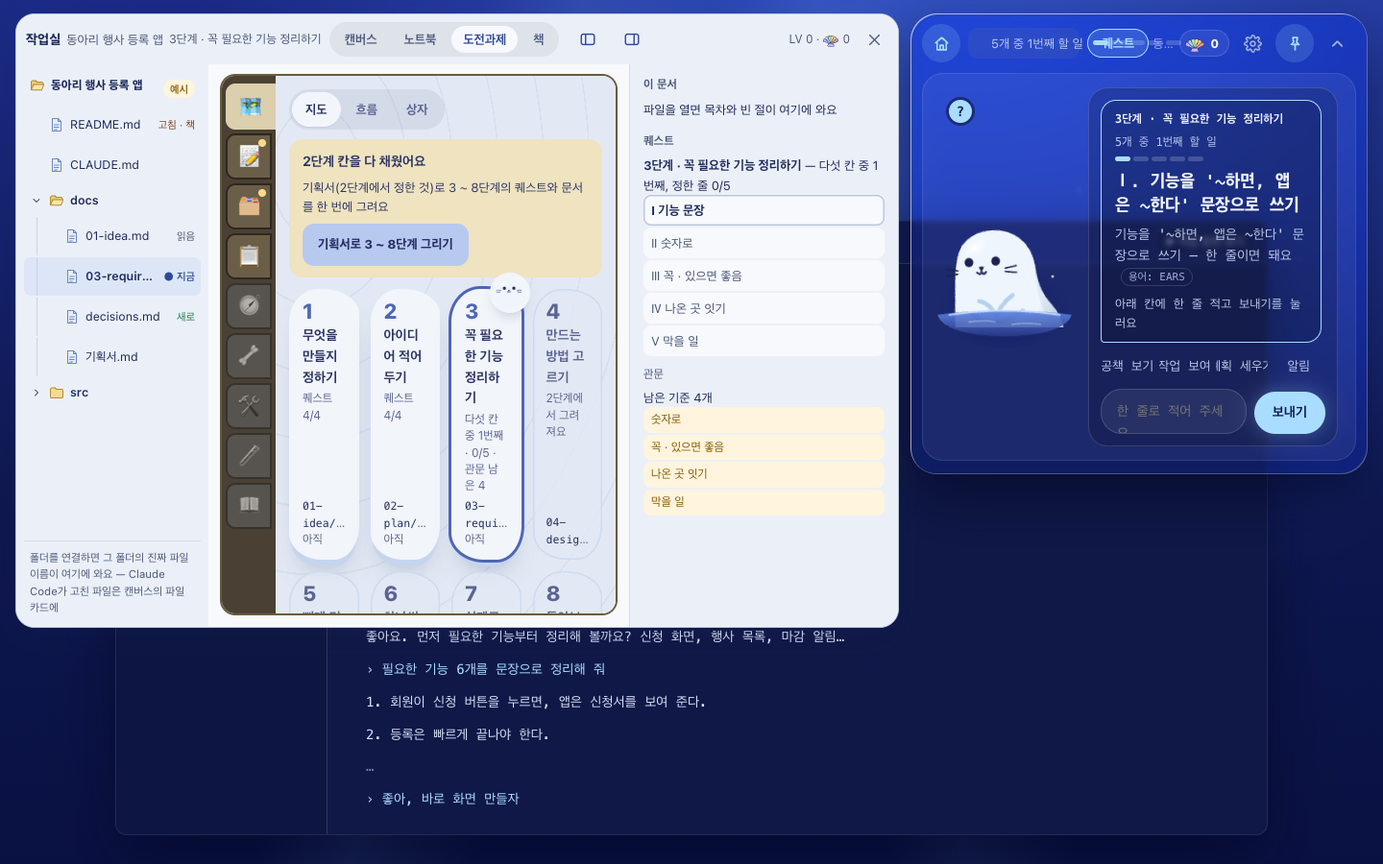
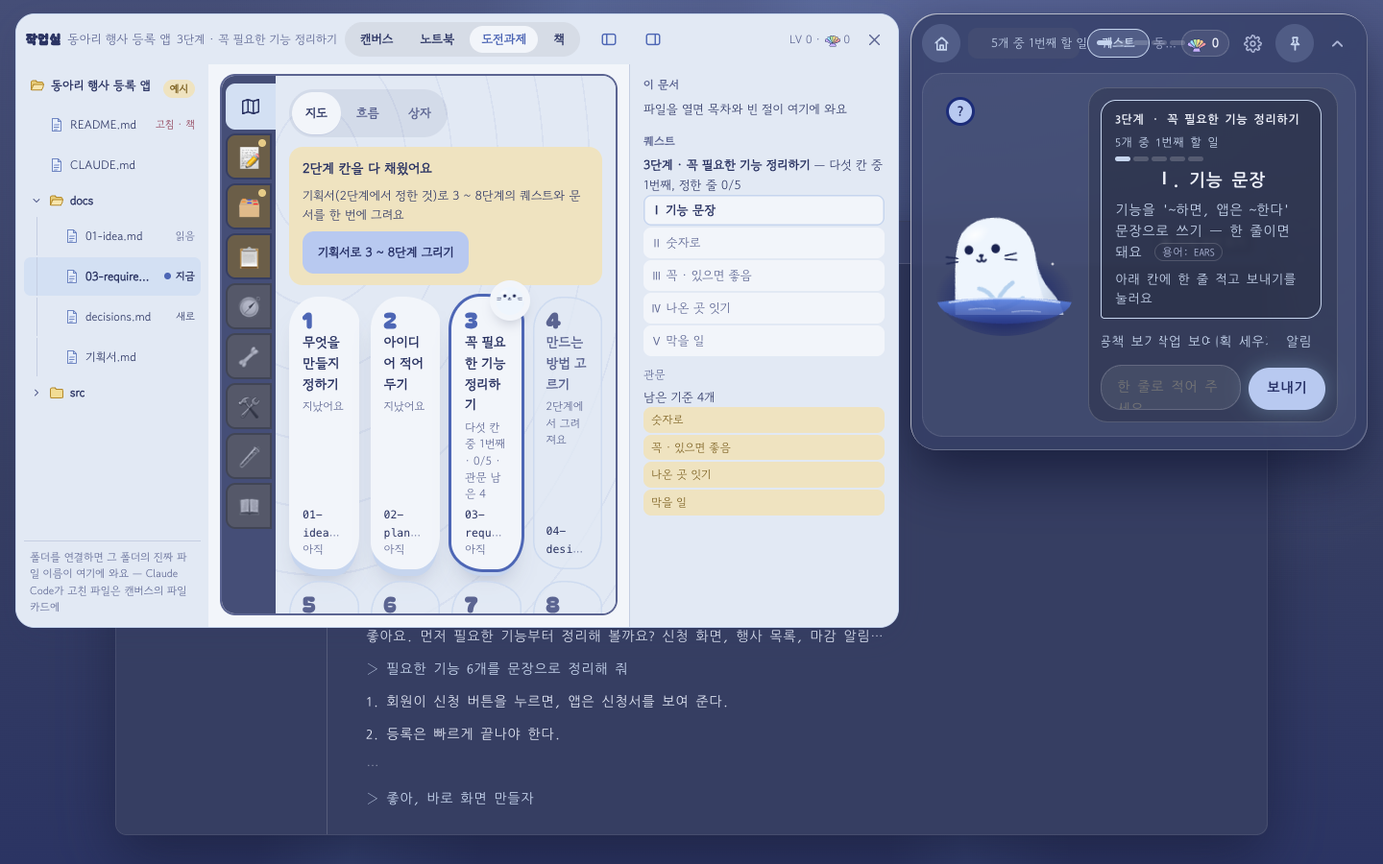
feat(navigator): C-54 ⑧ ⑨ 지도 보강 — 끝난 · 지금 카드를 누르면 커져 줄마다 할 일 → 문서 ← 재료, 줄을 누르면 오른쪽 칸에 누가 · 재료 · 다음 단계; 흐름 보기에 짝 선(1↔8 · 2↔7 · 3↔6)과 두 칸 나란히
디자인 넘김 ⓔ+(이재엽 버튼 "둘다 할것"(누르기 + 확대) · "'흐름 따라가기'에서만").

- stagemap.js PAIRS · pairOf(정한 곳 decide · 확인하는 곳 check) · usedBy(이 칸을 재료로 쓴 뒤 단계의 칸 — 결과 · 하는 중인 퀘스트 초안)
- app.js stageCells(n) · cardsMap big 카드(.sm-cell.big 한 줄 전체, sm-zoom 움직임, .sm-row 줄 = Ⅰ 이름 · 적은 줄/플로로 초안 · → 문서 절 · ← 재료, 누가 색 띠) · map-line → wsideHTML .ws-line(누가 정했나 · 재료가 온 곳 · 이 줄을 쓰는 다음 단계 · 파일 보기 / 틀로 맡기기, 빈 칸은 플로로 초안 + '채팅에서 같이 적기')
- treeMap(흐름)만: 단계마다 .jm-rails(길 셋 a 금 · b 민트 · c 볼, 정한 곳 s에서 확인하는 곳 e까지, 잠긴 장도 지나감) · 짝 단추(pair-sel) → .jm-side 두 칸 나란히(정한 곳 → 확인하는 곳, 좁으면 세로). 지도(카드)에는 짝 선이 없다
- 시험 먼저(code.md 1번): stagemap.test(PAIRS · pairOf · usedBy) · modes 핀 · e2e stage-map(큰 카드 · 줄 → 오른쪽 칸 · 다시 누르면 작아짐 · 길 8 · 두 칸 나란히 · 닫기), 사진 compare/map-zoom.png · map-pairs.png

diff --git a/02-frontend/navigator/app.js b/02-frontend/navigator/app.js
@@ -1512,6 +1512,15 @@
     // C-54: 도전과제의 카드를 눌렀으면 그 카드의 퀘스트(준비된 다섯 칸) · 문서 · 재료
     if (st.qtab === "tree" && st.mapSel != null && SM) {
       const m = stageMap(), c = m && m.cards[st.mapSel]; if (c) {
+        // C-54 ⑧(2026-10-28): 큰 카드의 줄을 눌렀다 — 누가 정했나(플로로 초안 → 고침 · 고름 · 직접 · 옮김) · 재료가 온 곳 · 이 줄을 쓰는 다음 단계 · 파일 보기 / 틀로 맡기기. 빈 칸은 플로로 초안 + 채팅에서 같이 적기
+        if (st.mapLine && st.mapLine.n === c.n) { const x = stageCells(c.n)[st.mapLine.k];
+          if (x) { const uses = SM.usedBy({ s: c.n, i: st.mapLine.k }, st.results, st.quest), who = x.line ? `${QU.BY_WORD[x.by] || "적음"}${x.draft && x.draft !== x.line && (x.by === "edit" || x.by === "pick") ? ` — 플로로 초안: ${esc(x.draft)}` : x.by === "ok" ? " — 플로로 초안 그대로" : ""}` : "";
+            const open = c.doc.has ? `<button type="button" class="b sm" data-act="map-open" data-v="${esc(c.doc.path)}">파일 보기</button>` : "", preset = PR && canLive && st.mode !== "fixture" && c.doc.has ? `<button type="button" class="b sm ghost" data-act="preset-open">틀로 맡기기</button>` : "";
+            return `${doc}<section class="ws-line"><h4>${ROMAN(st.mapLine.k)} ${esc(QU.shortOf(x.name))}</h4><p class="ws-sum">${x.line ? `“${esc(x.line)}”` : x.draft ? `비었어요 — 플로로 초안: “${esc(x.draft)}”` : "비었어요"}</p>
+              ${x.line ? `<p class="ws-h">누가 정했나</p><p class="ws-sum">${who}</p>` : `<p class="ws-sum"><button type="button" class="b sm" data-act="map-chat">채팅에서 같이 적기</button></p>`}
+              <p class="ws-h">재료가 온 곳</p><ul class="ws-mat">${x.from.length ? x.from.map((f) => `<li>${esc(refLabel(f))}</li>`).join("") : "<li>받은 글만 봤어요</li>"}</ul>
+              <p class="ws-h">이 줄을 쓰는 다음 단계</p><ul class="ws-mat">${uses.length ? uses.map((u) => `<li>${LB(u.s)} ${ROMAN(u.i)} ${esc(QU.shortOf(u.name))}</li>`).join("") : "<li>아직 없어요 — 다음 단계가 이 줄을 재료로 쓰면 여기에 와요</li>"}</ul>
+              <p class="ws-h">문서</p><p class="ws-sum"><code>${esc(c.doc.path)}</code> ${open}${preset}${c.doc.has ? "" : " 아직 없어요"}</p></section>`; } }
         const p = c.prepared, cells = p ? [["① 생각", p.think], ["② 행동", p.act], ["③ 기록", p.record.map((x) => QU.shortOf(x)).join(" · ")], ["④ 저장", p.save], ["⑤ 버전", p.ver]] : null;
         return `${doc}<section class="ws-q"><h4>퀘스트</h4>${cells ? `<ol class="ws-cells">${cells.map(([k, v]) => `<li><b>${k}</b> ${esc(v || "—")}</li>`).join("")}</ol><p class="ws-h">재료</p><p class="ws-sum">${esc(p.from)}</p>` : `<p class="ws-sum">${c.state === "later" ? "2단계에서 그려져요" : c.q ? `다섯 칸 ${c.q.k}/${c.q.n}` : "아직"}</p>`}
           <p class="ws-h">문서</p><p class="ws-sum"><code>${esc(c.doc.path)}</code> ${c.doc.has ? `<button type="button" class="lnk" data-act="map-open" data-v="${esc(c.doc.path)}">파일 보기로 열기</button>` : "아직 없어요"}</p></section>`;
@@ -1584,10 +1593,23 @@
   const STATE_WORD = { done: "끝남", now: "지금", ready: "준비됨", pending: "준비됨 — 확인 전", later: "2단계에서 그려져요" };
   // 규칙 카드(stagemap.prepare) + AI 카드(/api/prepare) — AI가 낸 이름 · ① 생각 · ② 행동 · 근거만 덮고, ③ 기록 · ④ 저장 · ⑤ 버전은 규칙 그대로(C-56 R-2)
   const mergePrepared = (rule, ai) => Object.fromEntries(Object.entries(rule).map(([n, c]) => { const x = ai && ai[n]; return [n, x ? { ...c, think: x.think || c.think, act: x.act || c.act, from: x.from || c.from, ...(x.title ? { title: x.title } : {}) } : c]; }));
+  // C-54 ⑧(2026-10-28 디자인 넘김 ⓔ+, 이재엽 버튼 "둘다 할것" — 누르기 + 확대): 한 단계의 칸들 — 이름 · 적은 줄 · 누가 · 플로로 초안 · 재료. 하는 중인 퀘스트가 먼저, 다음은 결과, 그 뒤는 할 일 이름만(흐름 보기의 cellOf와 같은 규칙)
+  function stageCells(n) {
+    const r = st.results[n], q = st.quest && st.quest.chap === n ? st.quest : null;
+    const names = q ? q.objs.map((o, i) => QU.nameOf(q, i)) : r ? r.items.map((x) => x.name) : crits(n).map((c) => c.text);
+    return names.map((name, k) => (q ? { name, line: (q.lines[k] || [])[0] || "", by: (q.by || [])[k] || "", draft: QU.proposalOf(q, k), from: QU.fromOf(q, k) }
+      : r && r.items[k] ? { name, line: (r.items[k].lines || [])[0] || "", by: r.items[k].by || "", draft: r.items[k].draft || "", from: r.items[k].from || [] } : { name, line: "", by: "", draft: "", from: [] }))
+      .map((c) => ({ ...c, by: QU.BY.includes(c.by) ? c.by : "", from: (c.from || []).filter((x) => x && Number.isInteger(x.s) && Number.isInteger(x.i)) }));   // 저장소에서 온 값은 믿지 않는다(class에 들어간다)
+  }
   function cardsMap(cur) {
     const m = stageMap(); if (!m) return treeMap(cur);
     const fix = st.prep && !st.prep.ok && st.prep.fix;
+    // ⑧ 고른 끝난 · 지금 카드는 그 자리에서 커진다 — 줄 하나 = 할 일 → 문서의 절 ← 재료. 줄을 누르면 오른쪽 칸(wsideHTML .ws-line)
+    const big = (c) => { const cells = stageCells(c.n), doc = c.doc.path.replace(/^docs\//, "");
+      const rows = cells.map((x, k) => `<li class="sm-row${x.line ? "" : " miss"}${x.by ? ` by-${x.by}` : ""}${st.mapLine && st.mapLine.n === c.n && st.mapLine.k === k ? " sel" : ""}"><button type="button" data-act="map-line" data-i="${c.n}" data-k="${k}" aria-pressed="${!!(st.mapLine && st.mapLine.n === c.n && st.mapLine.k === k)}"><b>${ROMAN(k)}</b><span class="sm-rn">${esc(QU.shortOf(x.name))}</span><span class="sm-rl">${x.line ? esc(x.line) : x.draft ? `플로로 초안: ${esc(x.draft)}` : "비었어요"}</span><small>→ ${esc(doc)} ${esc(QU.shortOf(x.name))} 절${x.from.length ? ` · ← ${x.from.map((f) => esc(refLabel(f))).join(" · ")}` : ""}</small></button></li>`).join("");
+      return `<div class="sm-cell big"><button type="button" class="sm-card ${c.state} sel big" data-act="map-card" data-i="${c.n}" aria-pressed="true" aria-label="${LB(c.n)} ${esc(c.title)} — 가까이 보고 있어요. 다시 누르면 작아져요"><span class="sm-no">${c.label}</span><span class="sm-t">${esc(c.title)}</span><span class="sm-line">${c.state === "done" ? "지났어요" : "지금"} · 줄을 누르면 오른쪽 칸에 누가 정했나 · 재료 · 다음 단계</span></button><ol class="sm-rows" aria-label="${LB(c.n)}의 칸">${rows}</ol></div>`; };
     const card = (c) => { const p = c.prepared, sel = st.mapSel === c.n;
+      if (sel && (c.state === "done" || c.state === "now")) return big(c);
       const body = c.state === "later" ? `<span class="sm-note">2단계에서 그려져요</span>`
         : c.state === "done" ? `<span class="sm-line">${c.q ? `퀘스트 ${c.q.k}/${c.q.n}` : "지났어요"}</span>`
         : c.state === "now" ? `<span class="sm-line">${c.q ? `다섯 칸 중 ${Math.min(c.q.k + 1, c.q.n)}번째 · ${c.q.k}/${c.q.n}` : "퀘스트 받기 전"}${c.gateLeft ? ` · 관문 남은 ${c.gateLeft}` : ""}</span>`
@@ -1600,7 +1622,7 @@
     const ban = m.canDraw ? `<div class="sm-ban"><b>2단계 칸을 다 채웠어요</b><span>기획서(2단계에서 정한 것)로 3 ~ 8단계의 퀘스트와 문서를 한 번에 그려요</span><button type="button" class="b" data-act="prep-draw">기획서로 3 ~ 8단계 그리기</button></div>`
       : m.drawn && !m.confirmed ? `<div class="sm-ban"><b>퀘스트 ${Object.keys(st.prep.cards).length}개를 준비했어요</b><span>${fix ? "카드마다 ① 생각을 고친 뒤 '맞아요'를 눌러요" : "카드마다 어느 절에서 왔는지 적었어요 — 맞으면 한 번에 넘어가요"}</span><button type="button" class="b" data-act="prep-ok">맞아요 — 이대로 준비해요</button>${fix ? "" : `<button type="button" class="b ghost" data-act="prep-fix">고칠래요</button>`}</div>`
       : m.cur < 2 ? `<div class="sm-ban soft"><span>1단계에서는 길이 한 칸만 보여요. 2단계 칸을 다 채우면 3단계부터 8단계까지의 퀘스트와 문서가 한 번에 그려져요</span></div>` : "";
-    const legend = `<p class="sm-legend"><span class="done">끝남</span><span class="now">지금</span><span class="ready">준비된 퀘스트</span><span class="later">아직 안 그려짐</span><small>카드를 누르면 오른쪽 칸에 그 퀘스트와 문서</small></p>`;
+    const legend = `<p class="sm-legend"><span class="done">끝남</span><span class="now">지금</span><span class="ready">준비된 퀘스트</span><span class="later">아직 안 그려짐</span><small>카드를 누르면 오른쪽 칸에 그 퀘스트와 문서 — 끝난 · 지금 카드는 커져서 줄마다 보여요</small></p>`;
     const docs = `<ul class="sm-docs">${m.docs.map((d) => `<li class="${d.has ? "has" : ""}"><code>${esc(d.path)}</code><span>${esc(d.what)}</span><small>${d.has ? "있음" : "아직"}</small></li>`).join("")}</ul>`;
     const ship = FDOCS && st.results[0] && st.results[1] ? `<p class="sm-ship"><button type="button" class="b" data-act="ship-open">문서로 묶어 GitHub에</button><small>지금까지 정한 것을 단계 문서 · 기획서 · 결정 기록으로</small></p>` : "";   // 흐름 보기(jmap)와 같은 단추
     return `<div class="sm">${ban}<div class="sm-grid">${row1}</div><div class="sm-grid back">${row2}</div>${docs}${legend}${ship}</div>`;
@@ -1646,8 +1668,11 @@
       const names = q ? q.objs.map((o) => o.name) : r ? r.items.map((x) => x.name) : crits(n).map((c) => c.text);   // 지금 장은 하는 중인 퀘스트가 먼저
       const got = names.filter((_, k) => cellOf(q, r, k).line).length;
       const date = r && (r.at || r.passed) ? `<span class="jm-date">${r.at ? `확인 ${esc(r.at.slice(5))}` : ""}${r.passed ? ` · 관문 ${esc(r.passed.slice(5))}` : ""}</span>` : "";
-      const head = `<div class="jm-h"><b>${LB(n)} · ${esc(s.title)}</b>${date}<span class="jm-count">${got}/${names.length}</span></div>`;
-      if (state === "lock") return `<section class="jm-stage lock" data-n="${n}">${head}${n > cur + 1 ? "" : `<ul class="jm-cells">${names.map((name) => `<li class="jm-lock"><b>${esc(QU.shortOf(name))}</b></li>`).join("")}</ul>`}</section>`;
+      // C-54 ⑨(2026-10-28 버튼 "'흐름 따라가기'에서만"): 짝 선 — 세로 길 셋(a 1↔8 · b 2↔7 · c 3↔6)이 정한 곳에서 확인하는 곳까지 오른쪽을 따라 내려간다. 짝 단추를 누르면 두 칸 나란히
+      const pr = SM ? SM.pairOf(n) : null, rails = SM ? `<span class="jm-rails" aria-hidden="true">${SM.PAIRS.map(([k, a, b]) => (n >= a && n <= b ? `<i class="${k}${n === a ? " s" : ""}${n === b ? " e" : ""}"></i>` : "<i></i>")).join("")}</span>` : "";
+      const pairBtn = pr ? `<button type="button" class="jm-pair ${pr.key}" data-act="pair-sel" data-v="${pr.key}" aria-pressed="${st.pair === pr.key}" title="두 칸 나란히 보기">${pr.role === "decide" ? `정한 것 → ${LB(pr.to)}에서 확인` : `← ${LB(pr.from)}에서 정한 것 확인`}</button>` : "";
+      const head = `<div class="jm-h"><b>${LB(n)} · ${esc(s.title)}</b>${date}<span class="jm-count">${got}/${names.length}</span>${pairBtn}</div>`;
+      if (state === "lock") return `<section class="jm-stage lock" data-n="${n}">${rails}${head}${n > cur + 1 ? "" : `<ul class="jm-cells">${names.map((name) => `<li class="jm-lock"><b>${esc(QU.shortOf(name))}</b></li>`).join("")}</ul>`}</section>`;
       const before = Object.keys(st.results).map(Number).filter((k) => k < n).sort((x, y) => x - y);
       const input = n === 0 ? `처음 말한 것${st.idea ? ` “${esc(st.idea.length > 90 ? `${st.idea.slice(0, 90)}…` : st.idea)}”` : ""}`
         : before.length ? before.map((k) => `<span class="jm-pill">${LB(k)}에서 정한 것 ${st.results[k].items.length}칸</span>`).join("") : "지난 단계에서 정한 것";
@@ -1665,13 +1690,16 @@
       }).join("");
       const ck = r && r.check ? r.check : null, met = ck ? `기준 ${ck.filter((x) => x.met).length}/${ck.length}` : "";
       const gate = r && r.passed ? `지났어요 ${esc(r.passed.slice(5))} — 이해했어요${met ? ` · ${met}` : ""}` : state === "done" ? "지났어요 — 날짜는 남아 있지 않아요" : r ? `칸을 다 확인했어요${met ? ` · ${met}` : ""} — 관문은 아직` : "아직 — 칸을 다 채우면 완료 보고 → 관문";   // 증빙 전(C-37)에 지난 장은 날짜가 없다
-      return `<section class="jm-stage ${state}" data-n="${n}">${head}<ol class="jm-flow">${step("in", "넣은 것", input)}${step("ai", "플로로가 한 것", ai)}${step("me", "내가 정한 것", `<ul class="jm-cells">${cells}</ul>`)}${step("gate", "관문", gate)}</ol></section>`;
+      return `<section class="jm-stage ${state}" data-n="${n}">${rails}${head}<ol class="jm-flow">${step("in", "넣은 것", input)}${step("ai", "플로로가 한 것", ai)}${step("me", "내가 정한 것", `<ul class="jm-cells">${cells}</ul>`)}${step("gate", "관문", gate)}</ol></section>`;
     });
     const arrows = blocks.map((b, n) => `${b}${n < N.STAGES.length - 1 ? `<div class="jm-arrow" aria-hidden="true">↓ <span>${esc(gv(N.STAGES[n]))}</span></div>` : ""}`).join("");
     const glow = refs.size ? `<style>${[...refs].map((id) => `.jmap:has(.jm-ref[data-ref="${id}"]:is(:hover,:focus)) .jm-cell[data-cell="${id}"]`).join(",")}{outline:2px solid #2F7BD6;outline-offset:2px;background:#EAF3FF}</style>` : "";
     const legend = `<p class="jm-legend">${QU.BY.map((b) => `<span class="by-${b}"><i aria-hidden="true"></i>${QU.BY_WORD[b]}</span>`).join("")}<small>재료에 올리면 그 칸이 빛나요</small></p>`;
     const ship = FDOCS && st.results[0] && st.results[1] ? `<button type="button" class="b" data-act="ship-open">문서로 묶어 GitHub에</button>` : "";
-    return `<div class="jmap">${glow}<div class="jm-top"><b>${esc(st.topic || "내 프로젝트")}</b><span>채운 칸 ${filled} · ${open ? `빈 칸 ${open} — '채우기'로 채워요` : "지금 빈 칸 없음"}</span>${ship}</div>${legend}${arrows}</div>`;
+    const pairSel = SM && st.pair ? SM.PAIRS.find(([k]) => k === st.pair) : null;
+    const sideCol = (n, role) => { const cs = stageCells(n); return `<div class="jm-sc"><b>${LB(n)} · ${esc(N.STAGES[n].title)}</b><small>${role === "decide" ? "정한 곳" : "확인하는 곳"}</small><ul>${cs.map((x, k) => `<li class="${x.line ? "" : "miss"}"><b>${ROMAN(k)}</b> ${esc(QU.shortOf(x.name))}<span>${x.line ? esc(x.line) : n > cur ? "아직" : "비었어요"}</span></li>`).join("")}</ul></div>`; };
+    const side = pairSel ? `<section class="jm-side ${pairSel[0]}" aria-label="두 칸 나란히"><div class="jm-sh"><b>두 칸 나란히 — ${LB(pairSel[1])}에서 정한 것을 ${LB(pairSel[2])}에서 확인해요</b><button type="button" class="b sm ghost" data-act="pair-sel" data-v="${pairSel[0]}">닫기</button></div><div class="jm-sg">${sideCol(pairSel[1], "decide")}<span class="jm-sl" aria-hidden="true">→</span>${sideCol(pairSel[2], "check")}</div></section>` : "";
+    return `<div class="jmap">${glow}${side}<div class="jm-top"><b>${esc(st.topic || "내 프로젝트")}</b><span>채운 칸 ${filled} · ${open ? `빈 칸 ${open} — '채우기'로 채워요` : "지금 빈 칸 없음"}</span>${ship}</div>${legend}${arrows}</div>`;
   }
   // 설명 풍선(C-22) — data-tt="제목|설명". 마우스를 올리거나 키보드로 고르면 그 위에 뜬다(맨 위면 아래)
   const $tt = document.createElement("div"); $tt.className = "tt"; $tt.setAttribute("role", "tooltip"); document.body.appendChild($tt);
@@ -3138,7 +3166,10 @@
       st.prep = { cards: mergePrepared(rule.cards, ai), ok: false, fix: false, at: ymd(), ...(ai ? { ai: true } : {}) }; save(); render(); say(ai ? "이 프로젝트의 말로 3단계부터 8단계까지 그렸어요 — 카드마다 근거 절을 적었어요. 맞으면 '맞아요'로 한 번에 넘어가요" : "기획서로 3단계부터 8단계까지 그렸어요 — 카드마다 어느 절에서 왔는지 적었어요. 맞으면 '맞아요'로 한 번에 넘어가요"); },
     "prep-ok": () => { if (!st.prep) return; st.prep = { ...st.prep, ok: true, fix: false }; save(); render(); say("준비된 퀘스트로 가요 — 그 단계에 들어서면 준비한 칸으로 시작해요"); },
     "prep-fix": () => { if (!st.prep) return; st.prep = { ...st.prep, fix: true }; render(); },
-    "map-card": (i) => { const m = stageMap(), c = m && m.cards[i]; if (!c) return; st.mapSel = st.mapSel === i ? null : i; if (st.mapSel != null && !wsideOpen) { wsideOpen = true; writeLS("floe:ws-side", "1"); } render(); if (st.mapSel != null && c.doc.has) ACT["map-open"](null, { dataset: { act: "map-open", v: c.doc.path } }); },
+    "map-line": (i, el) => { const k = Number(el && el.dataset.k); if (!Number.isInteger(k)) return; st.mapLine = st.mapLine && st.mapLine.n === Number(i) && st.mapLine.k === k ? null : { n: Number(i), k }; if (st.mapLine && !wsideOpen) { wsideOpen = true; writeLS("floe:ws-side", "1"); } render(); },   // C-54 ⑧ 줄 하나 → 오른쪽 칸
+    "map-chat": () => { st.qtab = "quest"; ACT["draft-fix"](); },   // C-54 ⑧ 빈 칸 — 채팅에서 같이 적기(공책을 열고 채팅 칸에 커서)
+    "pair-sel": (_, el) => { const v = el && el.dataset.v; if (!SM || !SM.PAIRS.some(([k]) => k === v)) return; st.pair = st.pair === v ? null : v; render(); },   // C-54 ⑨ 두 칸 나란히
+    "map-card": (i) => { const m = stageMap(), c = m && m.cards[i]; if (!c) return; st.mapSel = st.mapSel === i ? null : i; if (!st.mapLine || st.mapLine.n !== i) st.mapLine = null; if (st.mapSel != null && !wsideOpen) { wsideOpen = true; writeLS("floe:ws-side", "1"); } render(); if (st.mapSel != null && c.doc.has) ACT["map-open"](null, { dataset: { act: "map-open", v: c.doc.path } }); },
     // 빈 칸 채우기 — 지금 장의 칸은 채팅에서 차례로. 받기 전이면 퀘스트 탭(받기 화면)으로, 섬이 접혀 있으면 펼친다(앱의 옆 창에서 눌러도 섬에서 이어진다)
     "jmap-fill": () => {
       if (st.qfocus === "plan") st.qfocus = "stage";

diff --git a/02-frontend/navigator/app.css b/02-frontend/navigator/app.css
@@ -1147,6 +1147,47 @@ a.btn{text-decoration:none;display:inline-flex;align-items:center}
 .sm-card.later .sm-no{color:#5B6491}
 .sm-card.sel{outline:3px solid #4D66B5;outline-offset:3px}
 .sm-card:focus-visible{outline:3px solid #4D66B5;outline-offset:3px}
+/* C-54 ⑧ 얼음 조각 가까이(2026-10-28 버튼 "둘다 할것" — 누르기 + 확대): 고른 카드가 한 줄 전체로 커지고 줄마다 할 일 → 문서 ← 재료 */
+@keyframes sm-zoom{from{transform:scale(.86);opacity:.5}to{transform:none;opacity:1}}
+.sm-cell.big{grid-column:1/-1;animation:sm-zoom .28s cubic-bezier(.2,.8,.2,1);transform-origin:center top}
+.sm-card.big{min-height:0;flex-direction:row;align-items:baseline;gap:10px;padding:10px 16px;border-radius:22px}
+.sm-card.big .sm-line{margin-left:auto}
+.sm-rows{list-style:none;margin:0;padding:0 4px;display:grid;gap:4px}
+.sm-row button{width:100%;display:grid;grid-template-columns:auto minmax(0,.9fr) minmax(0,1.6fr);gap:2px 10px;align-items:baseline;text-align:left;min-height:44px;padding:6px 12px;border:1.5px solid #C5CEE2;border-left-width:5px;border-radius:12px;background:#F2F5FA;color:#2B3463;font:inherit;font-size:calc(12.5px * var(--ui-scale,1));cursor:pointer}
+.sm-row button b{color:#5B6491;font-weight:800}
+.sm-row button .sm-rn{font-weight:700;overflow-wrap:anywhere}
+.sm-row button .sm-rl{color:#2B3463;overflow-wrap:anywhere}
+.sm-row button small{grid-column:2/-1;color:#5B6491;font-size:calc(11px * var(--ui-scale,1))}
+.sm-row.miss button .sm-rl{color:#5B6491;font-style:italic}
+.sm-row.by-ok button{border-left-color:#7FC9A6}.sm-row.by-edit button{border-left-color:#E6CB86}.sm-row.by-me button{border-left-color:#4D66B5}.sm-row.by-pick button{border-left-color:#B8C9F0}.sm-row.by-moved button{border-left-color:#A9E2C4}.sm-row.by-skip button{border-left-color:#C5CEE2}
+.sm-row.sel button,.sm-row button:focus-visible{outline:3px solid #4D66B5;outline-offset:1px}
+.ws-line h4{margin:0 0 4px}
+.ws-line .b.sm{min-height:34px;padding:0 12px;font-size:calc(12.5px * var(--ui-scale,1));margin:2px 6px 2px 0}
+@media (prefers-reduced-motion:reduce){.sm-cell.big{animation:none}}
+/* C-54 ⑨ 짝 선(버튼 "'흐름 따라가기'에서만") — 흐름 보기 오른쪽의 세로 길 셋: a 1↔8 · b 2↔7 · c 3↔6. 정한 곳(s)에서 시작해 확인하는 곳(e)에서 끝난다, 사이 단계는 지나간다 */
+.jmap{padding-right:30px}
+.jm-stage{position:relative}
+.jm-rails{position:absolute;right:-26px;top:-10px;bottom:-10px;width:20px;pointer-events:none;font-size:0;line-height:0}
+.jm-rails i{position:absolute;top:0;bottom:0;width:4px;margin:0;padding:0;border:0;border-radius:0;background:transparent}
+.jm-rails i:nth-child(1){left:0}.jm-rails i:nth-child(2){left:8px}.jm-rails i:nth-child(3){left:16px}
+.jm-rails i.a{background:#D4B45A}.jm-rails i.b{background:#7FC9A6}.jm-rails i.c{background:#D98C9D}
+.jm-rails i.s{top:50%}.jm-rails i.e{bottom:50%}
+.jm-rails i.s::before,.jm-rails i.e::after{content:"";position:absolute;left:-4px;width:12px;height:12px;border-radius:50%;background:inherit;box-shadow:0 0 0 2px #F2F5FA}
+.jm-rails i.s::before{top:-6px}.jm-rails i.e::after{bottom:-6px}
+.jm-h{flex-wrap:wrap}
+.jm-pair{flex:0 0 auto;margin-left:auto;min-height:34px;padding:0 10px;border-radius:999px;border:1.5px solid #C5CEE2;background:#fff;color:#2B3463;font:inherit;font-size:calc(11.5px * var(--ui-scale,1));font-weight:700;white-space:nowrap;cursor:pointer}
+.jm-pair.a{border-color:#D4B45A}.jm-pair.b{border-color:#7FC9A6}.jm-pair.c{border-color:#D98C9D}
+.jm-pair[aria-pressed=true]{background:#2B3463;color:#F2F5FA}
+.jm-side{border-radius:12px;border:2px solid #C5CEE2;background:#F2F5FA;padding:10px 12px;display:grid;gap:8px}
+.jm-side.a{border-color:#D4B45A}.jm-side.b{border-color:#7FC9A6}.jm-side.c{border-color:#D98C9D}
+.jm-sh{display:flex;align-items:center;gap:8px;flex-wrap:wrap}.jm-sh b{flex:1 1 auto;font-size:calc(13px * var(--ui-scale,1))}
+.jm-sg{display:grid;grid-template-columns:minmax(0,1fr) auto minmax(0,1fr);gap:8px;align-items:start}
+.jm-sl{font-size:calc(20px * var(--ui-scale,1));color:#5B6491;align-self:center}
+.jm-sc b{display:block;font-size:calc(12.5px * var(--ui-scale,1))}.jm-sc small{display:block;color:#5B6491;font-size:calc(11px * var(--ui-scale,1));margin-bottom:4px}
+.jm-sc ul{list-style:none;margin:0;padding:0;display:grid;gap:3px}
+.jm-sc li{display:grid;grid-template-columns:auto minmax(0,1fr);gap:0 6px;padding:4px 8px;border-radius:8px;background:#fff;font-size:calc(12px * var(--ui-scale,1));color:#2B3463}
+.jm-sc li span{grid-column:2;color:#5B6491;overflow-wrap:anywhere}.jm-sc li.miss span{font-style:italic}
+@container (max-width:560px){.jm-sg{grid-template-columns:1fr}.jm-sl{transform:rotate(90deg);justify-self:center}}
 .sm-card .sm-flo{position:absolute;right:-6px;top:-14px;width:36px;height:36px;border-radius:50%;background:#F2F5FA;box-shadow:0 0 0 3px #F2F5FA,0 8px 16px -6px rgba(54,62,98,.5);display:grid;place-items:center}
 .sm-grid.back{direction:rtl}
 .sm-grid.back .sm-cell{direction:ltr}

diff --git a/04-tests/e2e/stage-map.test.js b/04-tests/e2e/stage-map.test.js
@@ -72,7 +72,23 @@ test("C-54 — 도전과제 탭의 카드 지도 · 기획서로 3 ~ 8단계 그
     assert.match(await page.$eval(".cv-c.c1", (e) => e.textContent), /기획서 3절의 줄|준비된/, "준비된 ① 생각");
     // 보기 셋
     await page.click("[data-act=qtab][data-tab=tree]"); await wait(200);
+    // C-54 ⑧ 얼음 조각 가까이(2026-10-28 버튼 "둘다 할것" — 누르기 + 확대): 끝난 카드(1단계)를 누르면 커져 줄마다 할 일 → 문서 ← 재료, 줄을 누르면 오른쪽 칸에 누가 정했나 · 다음 단계
+    await page.click('.sm-card[data-i="0"]'); await wait(350);
+    assert.ok(await page.$(".sm-cell.big .sm-card.big"), "고른 끝난 카드가 커진다"); const rows = await page.$$(".sm-cell.big .sm-row"); assert.ok(rows.length >= 1, "줄 하나 = 할 일");
+    await page.click('.sm-cell.big .sm-row [data-act="map-line"]'); await wait(300);
+    const line = await page.$eval(".wside .ws-line", (el) => el.textContent.replace(/\s+/g, " ")); assert.match(line, /누가 정했나/); assert.match(line, /종이 신청이 헷갈려요/);
+    await page.click('.sm-card[data-i="0"]'); await wait(350); assert.ok(!(await page.$(".sm-card.big")), "다시 누르면 작아진다");
+    if (SHOTS) { await page.click('.sm-card[data-i="0"]'); await wait(350); await shot(page, "map-zoom"); await page.click('.sm-card[data-i="0"]'); await wait(200); }
     await page.click('[data-act="tree-view"][data-v="flow"]'); await wait(200); assert.ok(await page.$(".qwin .jmap"), "흐름 = 한눈에 보기(C-39)");
+    // C-54 ⑨ 짝 선(버튼 "'흐름 따라가기'에서만"): 1↔8 · 2↔7 · 3↔6 길 셋, 짝 단추 → 두 칸 나란히
+    assert.ok((await page.$$(".jmap .jm-rails")).length === 8, "단계마다 길 자리"); assert.ok((await page.$$(".jmap .jm-rails i.a")).length === 8, "1↔8 길은 여덟 단계를 다 지난다");
+    await page.click('.jmap [data-act="pair-sel"][data-v="a"]'); await wait(250);
+    const side2 = await page.$eval(".jmap .jm-side", (el) => el.textContent.replace(/\s+/g, " ")); assert.match(side2, /1단계/); assert.match(side2, /8단계/); assert.match(side2, /종이 신청이 헷갈려요/);
+    if (SHOTS) await shot(page, "map-pairs");
+    await page.click('.jmap .jm-side [data-act="pair-sel"]'); await wait(200); assert.ok(!(await page.$(".jm-side")), "닫기");
+    const rail = await page.$eval('.jm-stage[data-n="0"] .jm-rails i.a', (el) => { const r = el.getBoundingClientRect(), b = el.closest(".board").getBoundingClientRect(); return { w: r.width, h: r.height, inside: r.right <= b.right && r.left >= b.left }; });
+    assert.ok(rail.w >= 3 && rail.h > 20 && rail.inside, `길이 보인다 ${JSON.stringify(rail)}`);
+    if (SHOTS) { await page.$eval('.jm-stage[data-n="1"]', (el) => el.scrollIntoView({ block: "start" })); await wait(150); await shot(page, "map-rails"); }
     await page.click('[data-act="tree-view"][data-v="box"]'); await wait(200); assert.ok(await page.$(".qwin .qempty, .qwin iframe.docmap"), "상자 = 문서 지도(서버 없이는 까닭)");
     await page.click('[data-act="tree-view"][data-v="cards"]'); await wait(200); assert.ok(await page.$(".sm-grid"), "다시 지도");
     const saved = await page.evaluate(() => JSON.parse(localStorage.getItem("navigator-prototype:v1")));

diff --git a/04-tests/navigator/modes.test.js b/04-tests/navigator/modes.test.js
@@ -228,3 +228,13 @@ test("app.js — 작업을 따라: onEvent → scheduleRefit(몇 초 모음) →
   assert.ok(/pre = null;\s*prefetch\(st\.quest\)/.test(a.slice(a.indexOf("function refitNow"))), "다음 단계 초안도 다시 미리(버튼 '다음 단계 미리까지')");
   assert.match(a.slice(a.indexOf("function scheduleRefit")), /st\.mode !== "live"/, "연습은 하지 않는다");
 });
+
+// C-54 ⑧ ⑨(2026-10-28, 디자인 넘김 ⓔ+ · 이재엽 버튼 "둘다 할것" · "'흐름 따라가기'에서만"): 지도의 끝난 · 지금 카드를 누르면 그 자리에서 커져(누르기 + 확대) 줄 하나 = 할 일 → 문서의 절 ← 재료, 줄을 누르면 오른쪽 칸에
+//   누가 정했나 · 재료가 온 곳 · 이 줄을 쓰는 다음 단계 · 파일 보기 / 틀로 맡기기(빈 칸은 플로로 초안 + '채팅에서 같이 적기'). 흐름 보기에만 짝 선(세로 길 셋)과 '두 칸 나란히'
+test("app.js — 얼음 조각 가까이: 고른 끝난 · 지금 카드는 big + 줄(.sm-row, map-line) → wside .ws-line(누가 · 재료 · 다음 단계 · 열기 · 채팅); 흐름 보기에 .jm-rails + pair-sel → .jm-side", () => {
+  const a = read("navigator/app.js"), c = read("navigator/app.css");
+  assert.match(a, /class="sm-card \$\{c\.state\} sel big"/, "고른 카드가 커진다"); assert.match(a, /data-act="map-line"/, "줄 하나 = 할 일"); assert.match(a, /"map-line": /); assert.match(a, /"map-chat": /, "채팅에서 같이 적기");
+  assert.match(a, /class="ws-line"/, "오른쪽 칸"); assert.match(a, /SM\.usedBy\(/, "이 줄을 쓰는 다음 단계"); assert.match(a, /class="jm-rails"/, "짝 선"); assert.match(a, /"pair-sel": /); assert.match(a, /class="jm-side \$\{pairSel\[0\]\}"/, "두 칸 나란히");
+  assert.ok(!/cardsMap[\s\S]*?jm-rails/.test(a.slice(a.indexOf("function cardsMap"), a.indexOf("function treePane"))), "짝 선은 지도(카드)에는 없다 — 흐름 따라가기에서만");
+  assert.match(c, /\.sm-cell\.big\{grid-column:1\/-1/, "큰 카드는 한 줄 전체"); assert.match(c, /@keyframes sm-zoom/, "확대 움직임"); assert.match(c, /\.jm-rails i\.a\{/, "길 셋의 색");
+});

diff --git a/03-backend/navigator/stagemap.js b/03-backend/navigator/stagemap.js
@@ -35,6 +35,16 @@
     return { cur, cards, docs: OUTSIDE.map(([path, what]) => ({ path, what, has: have.has(path) })), canDraw: !!results[1] && !prep, drawn: !!prep, confirmed: !!(prep && prep.ok) };
   }
 
-  const api = { PLAN_OF, prepare, build };
+  // C-54 ⑨ 짝 선(2026-10-28 — 이재엽 버튼 "'흐름 따라가기'에서만"): 정한 곳 → 확인하는 곳. 1↔8(무엇을 만들지 ↔ 돌아보기) · 2↔7(아이디어 · 요구 ↔ 써 보고 재 보기) · 3↔6(기능 정리 ↔ 하나씩 만들고 확인). 코드 번호(0 ~ 7)
+  const PAIRS = [["a", 0, 7], ["b", 1, 6], ["c", 2, 5]];
+  const pairOf = (n) => { const p = PAIRS.find(([, a, b]) => a === n || b === n); return p ? { key: p[0], from: p[1], to: p[2], role: n === p[1] ? "decide" : "check" } : null; };
+  // C-54 ⑧ 가까이: 이 칸({ s, i })을 재료(from)로 쓴 뒤 단계의 칸 — 결과(results[n].items[].from)와 하는 중인 퀘스트의 초안(quest.draft.items[].from)에서
+  function usedBy(cell, results = {}, quest = null) {
+    const out = [], hit = (from) => Array.isArray(from) && from.some((f) => f && f.s === cell.s && f.i === cell.i);
+    for (const k of Object.keys(results || {}).map(Number).filter((n) => n > cell.s).sort((a, b) => a - b)) (results[k].items || []).forEach((it, i) => { if (hit(it.from)) out.push({ s: k, i, name: it.name }); });
+    if (quest && quest.chap > cell.s && quest.draft && Array.isArray(quest.draft.items)) quest.draft.items.forEach((it, i) => { if (hit(it && it.from) && quest.objs[i]) out.push({ s: quest.chap, i, name: quest.objs[i].name }); });
+    return out;
+  }
+  const api = { PLAN_OF, prepare, build, PAIRS, pairOf, usedBy };
   if (typeof module !== "undefined" && module.exports) module.exports = api; else root.NavStageMap = api;
 })(typeof window !== "undefined" ? window : globalThis);
